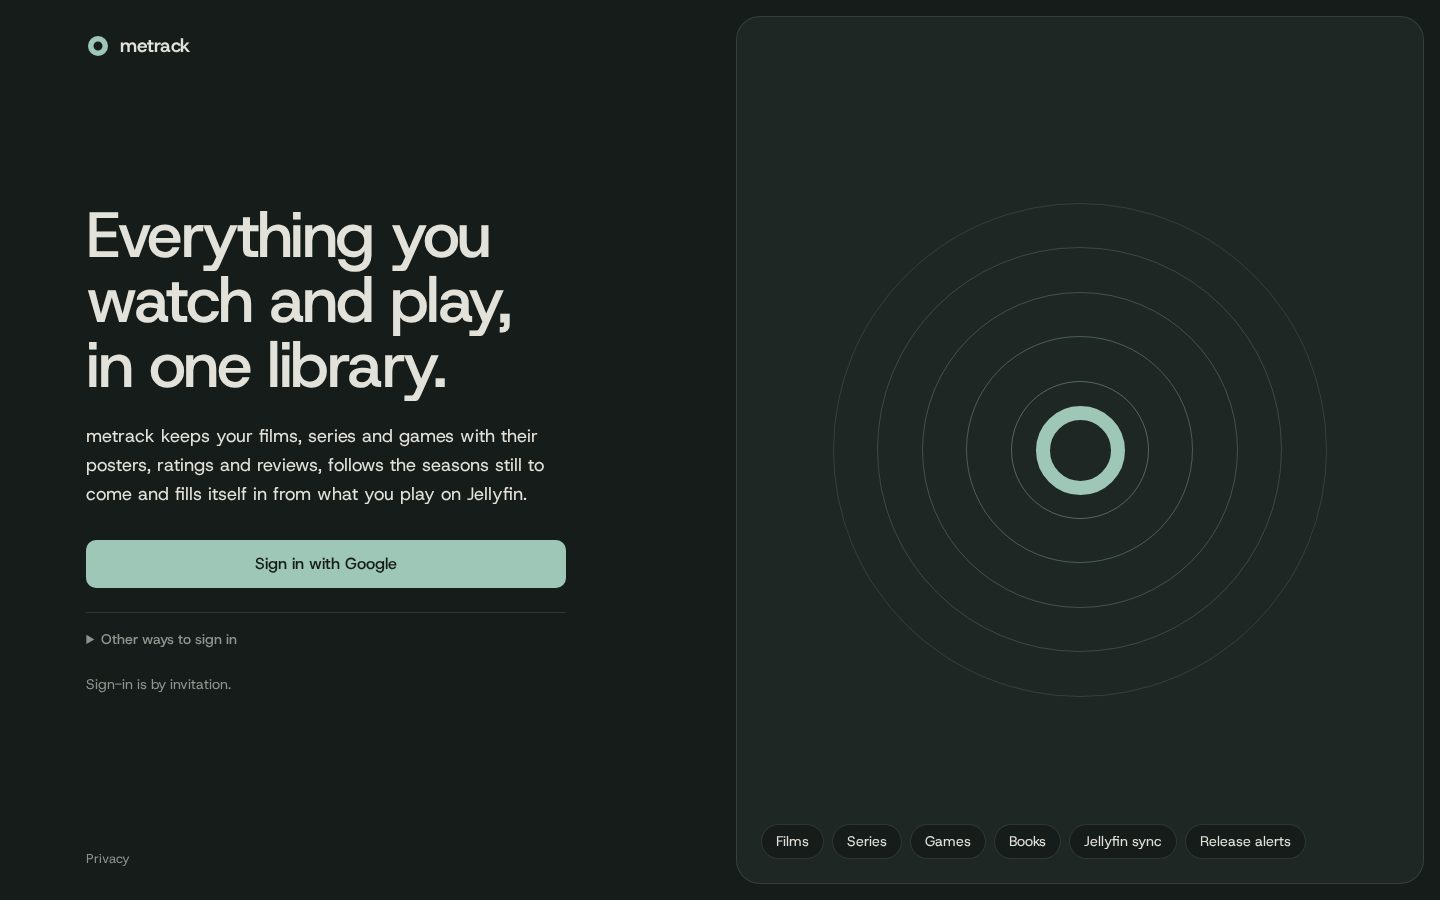
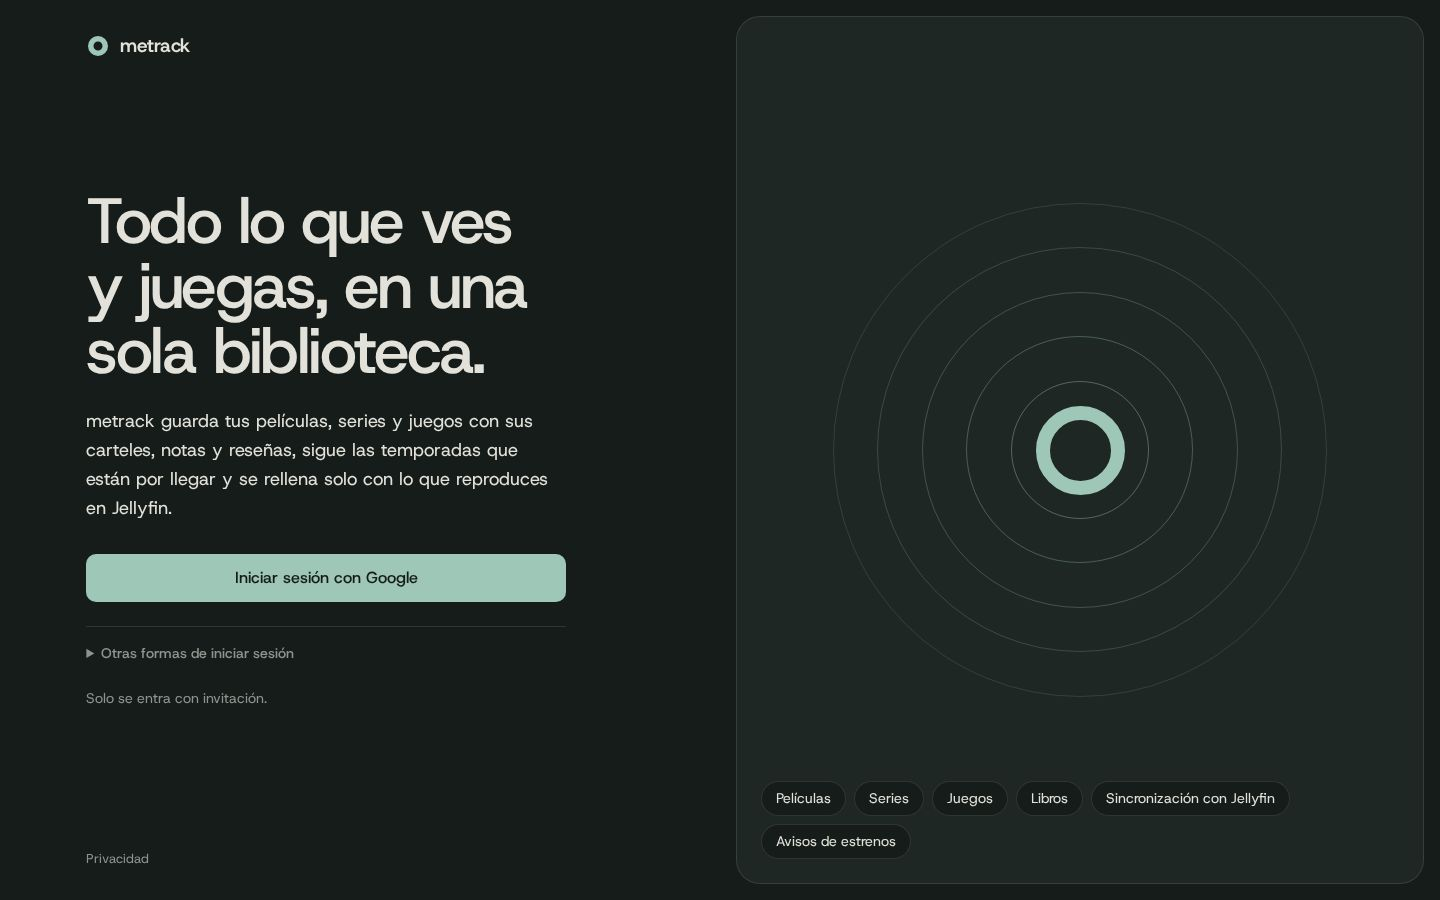
docs: retake the screenshots with the Spanish UI

diff --git a/docs/screenshots.md b/docs/screenshots.md
@@ -1,6 +1,6 @@
 # Screenshots
 
-Taken from a local copy of a real library (Cloudflare Worker build run with `wrangler dev`), on a 1440 px wide desktop window and a 390 px wide phone.
+Taken from a local copy of a real library (Cloudflare Worker build run with `wrangler dev`), with the web app in Spanish, on a 1440 px wide desktop window and a 390 px wide phone. The public pages are not localized yet and stay as they were.
 
 ## Web app
 
